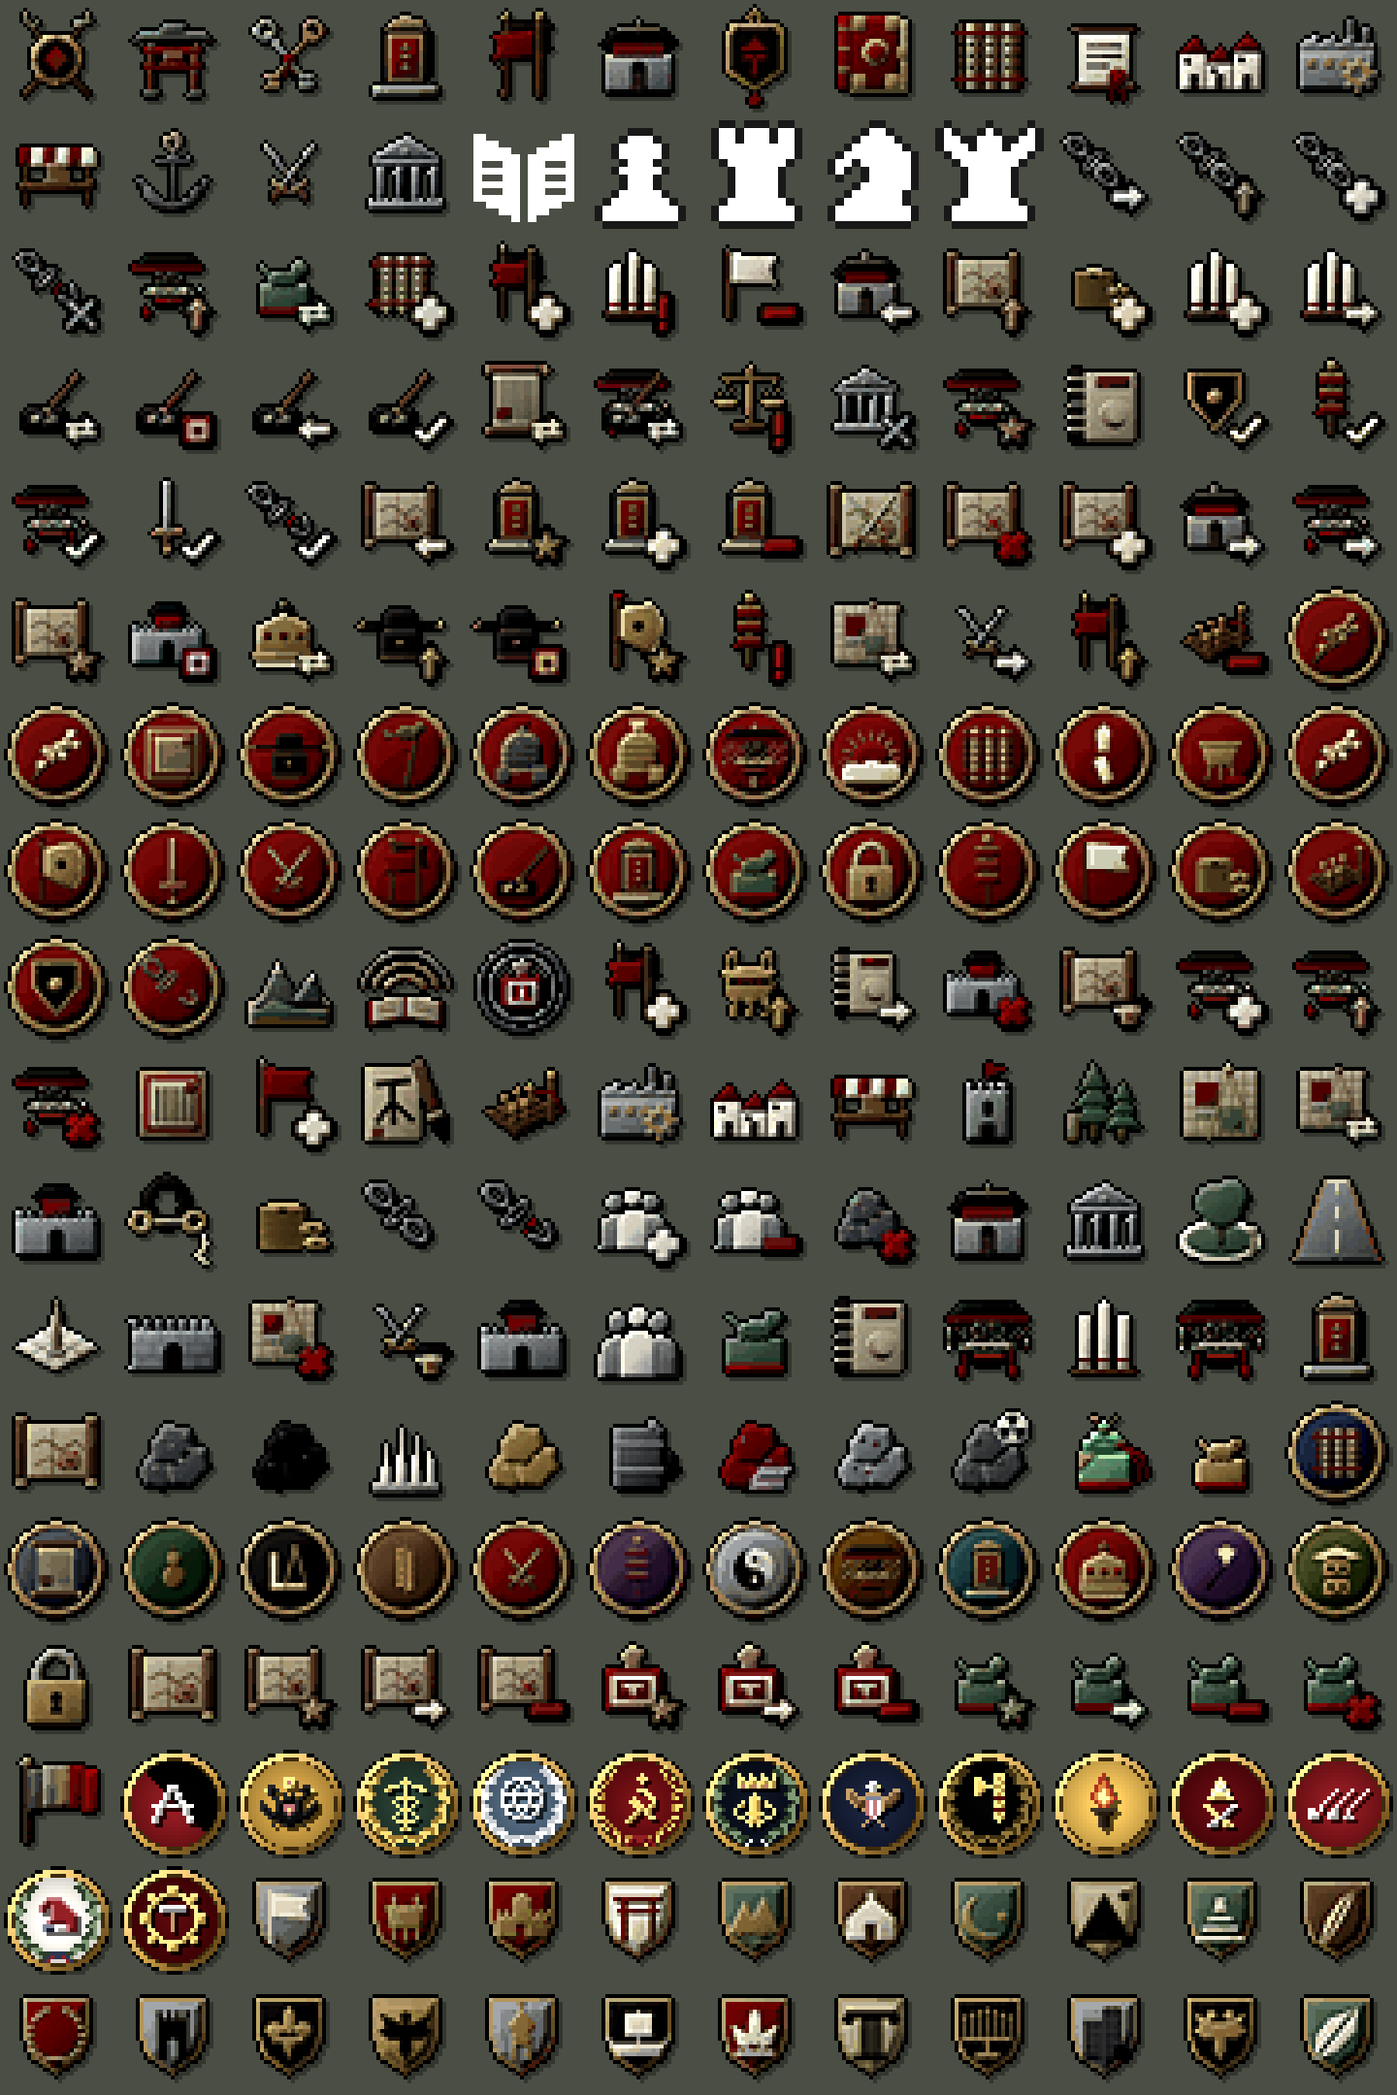
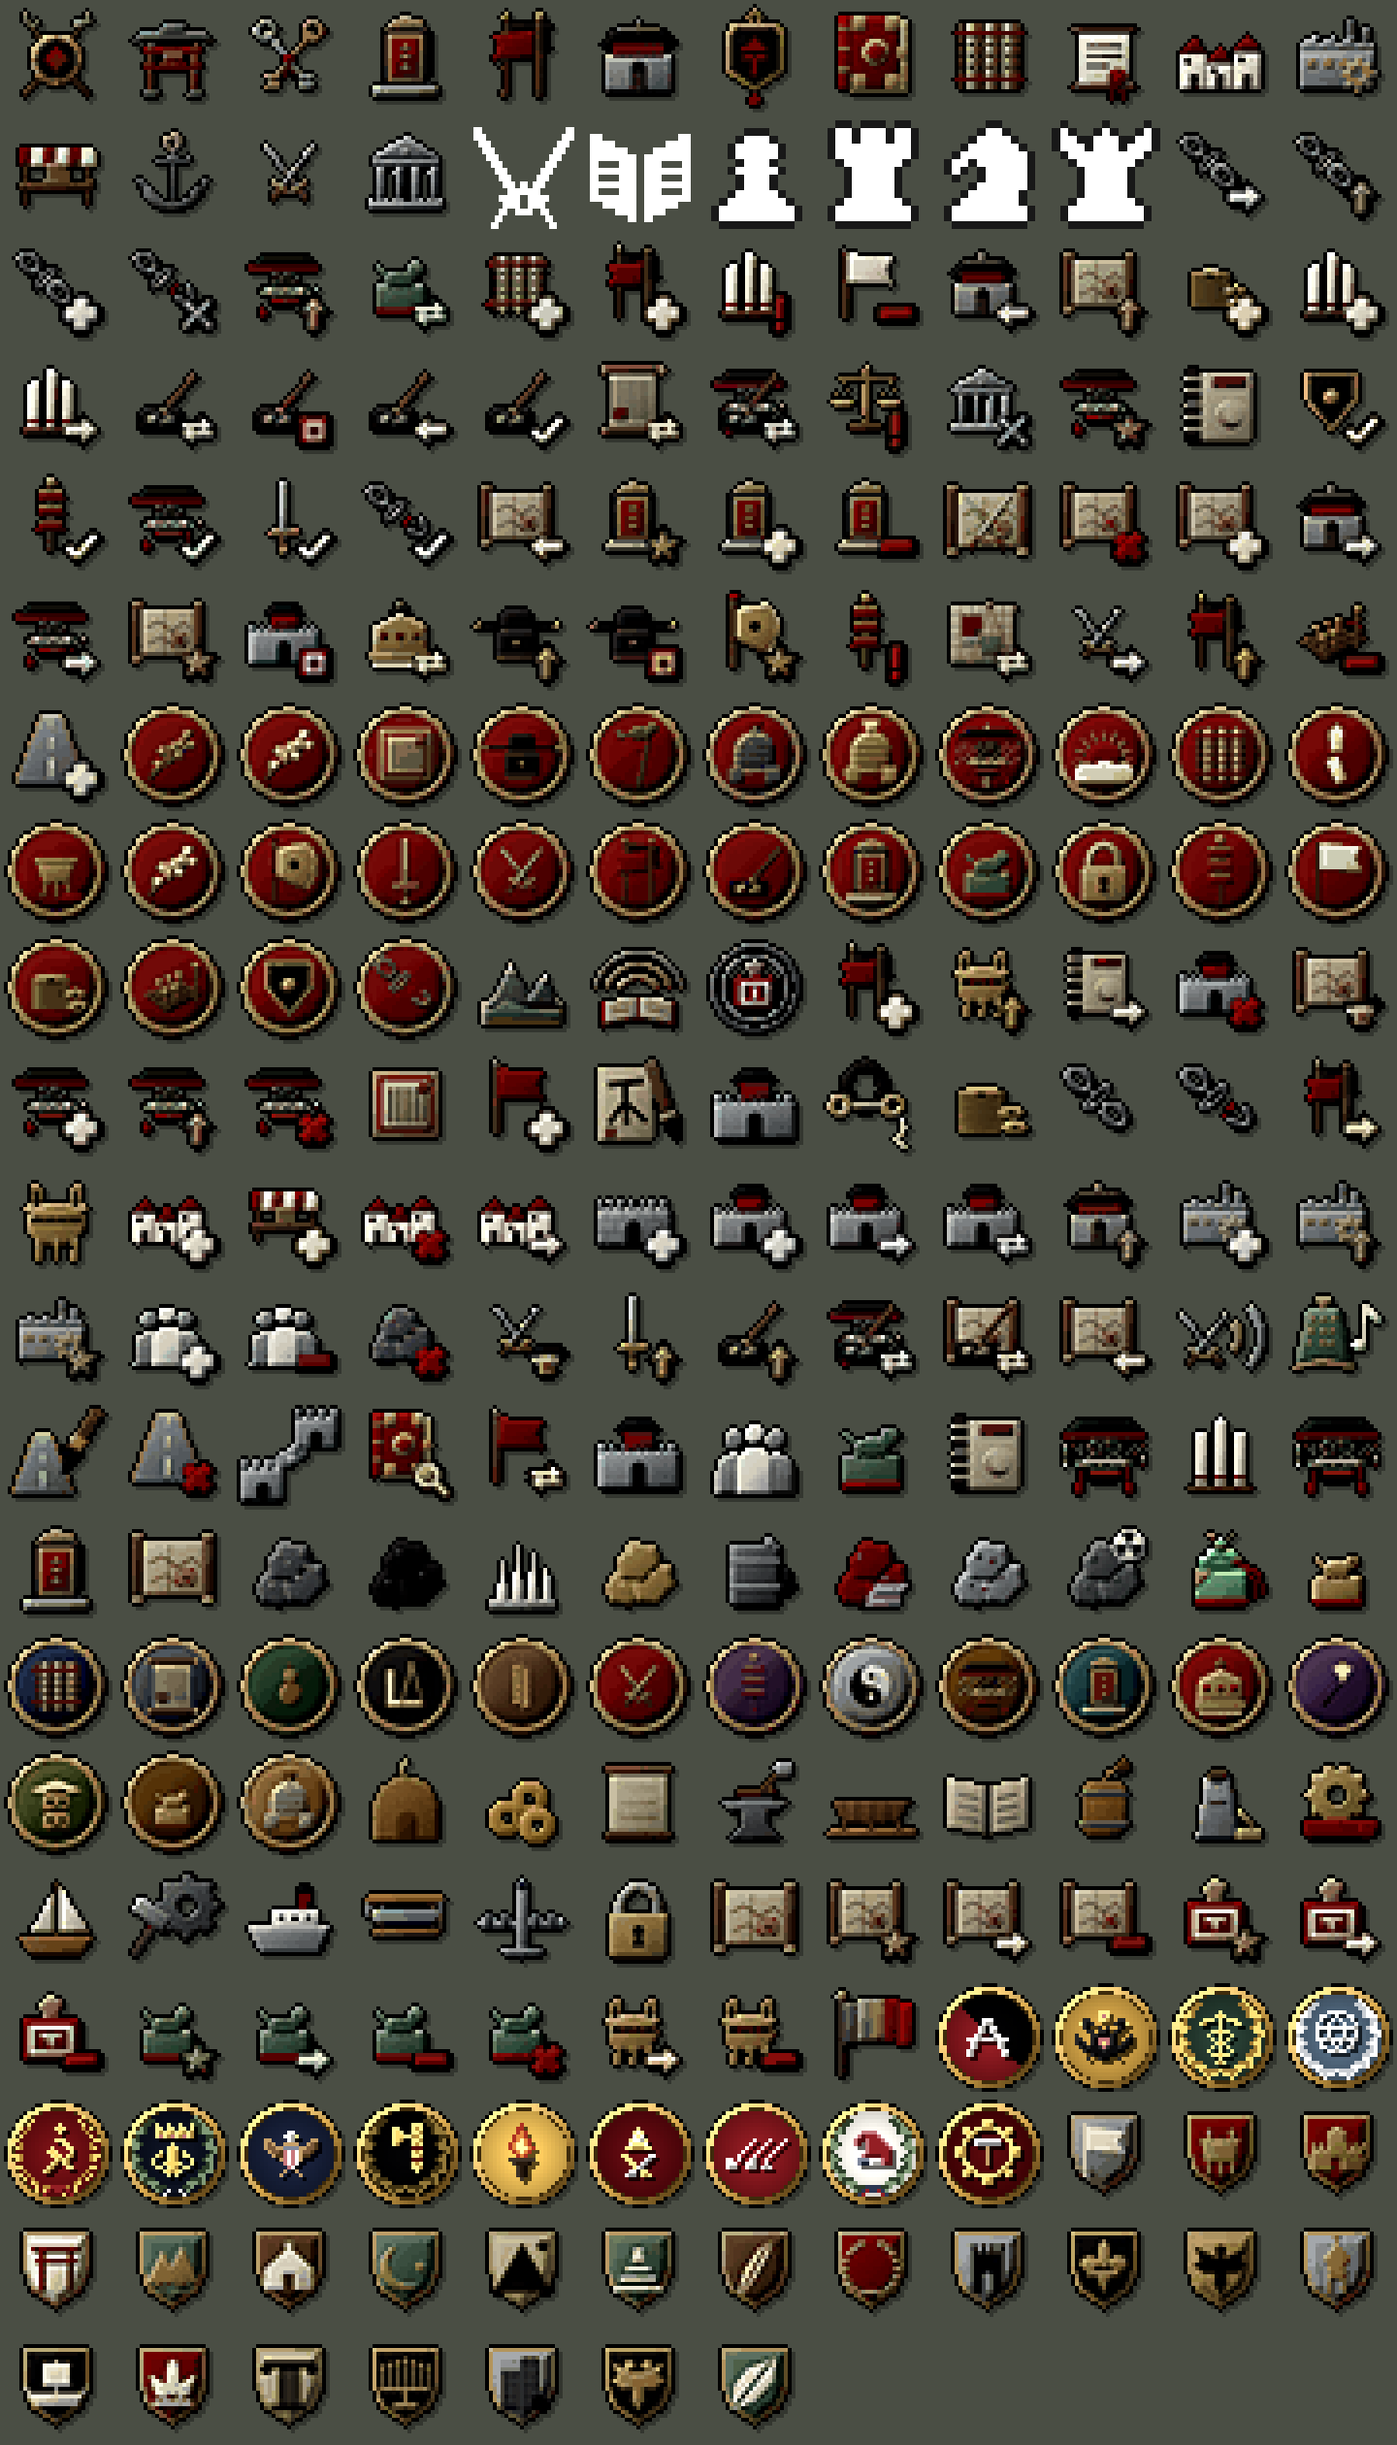
厂区加古代手工工场
- 新增窑场、铸钱局、造纸坊、冶铁坊、木船坞、印书坊，按砖瓦民居、铸币、造纸术、冶铁、沿岸领航、雕版印刷解锁，各有图标和厂区画法
- 有了近代厂以后 AI 添厂、新建只挑近代门类，每年先把一座古代工场改建成近代厂(火药厂照旧)
- 厂区小窗口添厂按钮古代、近代分两排

diff --git a/Scripts/GeneralSystems/FactorySystem.cs b/Scripts/GeneralSystems/FactorySystem.cs
@@ -13,8 +13,12 @@ namespace EmpireCraft.Scripts.GeneralSystems;
 // 归落在谁的地上的城。
 //   · 放：营建页的小、中、大厂区神力(边长 4、6、8 格，至多 2、4、6 座厂)，点城的地放下一整片成品——
 //     从本城已解锁的门类里随机挑满(见 Place)；不能压在城区、别的厂区、镇村上；
-//   · 厂：八类，同虚拟工厂(见 VirtualIndustrySystem)——火药厂(火药)、钢铁厂(工业化)、轻工厂与轻型船厂(摩托化)、
-//     重工厂与重型船厂(装甲战)、轻型飞机厂(航空)、重型飞机厂(战略航空)；船厂要城里有码头。每座 1~3 级；
+//   · 厂：古代手工工场六类(用户 2026-10-22 见厂区清一色火药厂，选"加古代手工工场")——窑场(砖瓦民居)、铸钱局(铸币)、
+//     造纸坊(造纸术)、冶铁坊(冶铁)、木船坞(沿岸领航)、印书坊(雕版印刷)；近代八类同虚拟工厂(见 VirtualIndustrySystem)——
+//     火药厂(火药)、钢铁厂(工业化)、轻工厂与轻型船厂(摩托化)、重工厂与重型船厂(装甲战)、轻型飞机厂(航空)、
+//     重型飞机厂(战略航空)；船坞、船厂要城里有码头。每座 1~3 级；
+//   · 新旧交替(问答选"AI 逐步改建成近代厂")：本城解锁了钢铁厂以后的近代门类，AI 添厂、新建只挑近代的，
+//     每年先把一座古代工场改建成近代厂(火药厂不算古代工场，照旧留着)；
 //   · 产出：每座每级给城里 jobs_per_factory 个工场岗位(见 UrbanEmploymentSystem)，每年按门类出一份产值(进税基，见 Produce)；
 //   · 本城有厂区：矿场、伐木场能升到第三级以上，产出多两成五；每片厂区多许建一座矿场、伐木场、屠宰场(至多三座)；
 //   · 点厂区打开小窗口(见 FactoryWindow)：改名、扩建缩建、换个样子，厂的升级降级、添加拆除，看产出；
@@ -30,6 +34,12 @@ public static class FactorySystem
     // 门类：建筑 id、解锁它的科技、每级每年的产值
     public static readonly (string id, string tech, float value)[] Types =
     {
+        ("kiln", "tiled_housing", 20f),
+        ("mint", "currency", 25f),
+        ("paper_mill", "paper", 25f),
+        ("iron_foundry", "ironworking", 30f),
+        ("wooden_shipyard", "coastal_pilotage", 30f),
+        ("print_shop", "printing", 30f),
         ("gunpowder_mill", "gunpowder", 40f),
         ("steel_mill", "industrialization", 60f),
         ("light_factory", "motorization", 50f),
@@ -39,6 +49,20 @@ public static class FactorySystem
         ("light_aircraft_factory", "aviation", 100f),
         ("heavy_aircraft_factory", "strategic_aviation", 120f)
     };
+
+    // 古代手工工场(有了近代厂 AI 会逐步改建掉)
+    public static readonly HashSet<string> Ancient = new()
+        { "kiln", "mint", "paper_mill", "iron_foundry", "wooden_shipyard", "print_shop" };
+
+    // 近代厂：工业化以后的门类(火药厂既不算古代也不算近代)
+    public static bool IsModern(string type) => !Ancient.Contains(type) && type != "gunpowder_mill";
+
+    // AI 挑门类：有近代的只挑近代的
+    private static List<string> Preferred(List<string> unlocked)
+    {
+        List<string> modern = unlocked.Where(IsModern).ToList();
+        return modern.Count > 0 ? modern : unlocked;
+    }
 
     public const int MaxSize = 3, MaxLevel = 3;
     public static int Capacity(int size) => Math.Max(1, size) * 2;
@@ -285,12 +309,27 @@ public static class FactorySystem
         int wanted = tier >= 4 ? 3 : tier >= 3 ? 2 : tier >= 2 ? 1 : 0;
         List<FactorySite> sites = InCity(city);
         if (wanted == 0 && sites.Count == 0) return;
+        List<string> preferred = Preferred(unlocked);
+        // 有了近代厂：先把一座古代工场(等级低的先)改建成近代厂，慢慢换代
+        if (preferred.Any(IsModern))
+        {
+            var old = sites.SelectMany(site => site.units.Select((unit, index) => (site, unit, index)))
+                .Where(entry => Ancient.Contains(entry.unit.type)).OrderBy(entry => entry.unit.level).FirstOrDefault();
+            if (old.site != null)
+            {
+                List<string> missing = preferred.Where(type => !old.site.units.Exists(unit => unit.type == type)).ToList();
+                List<string> choices = missing.Count > 0 ? missing : preferred;
+                string type = choices[UnityEngine.Random.Range(0, choices.Count)];
+                if (EnterpriseSystem.FundOwned(city, UnitCost(type, 1), old.site.state)) Rebuild(old.site, old.index, type);
+                return;
+            }
+        }
         // 没满的厂区添一座(先挑区里还没有的门类)
         FactorySite open = sites.FirstOrDefault(site => site.units.Count < Capacity(site.size));
         if (open != null)
         {
-            List<string> fresh = unlocked.Where(type => !open.units.Exists(unit => unit.type == type)).ToList();
-            List<string> pool = fresh.Count > 0 ? fresh : unlocked;
+            List<string> fresh = preferred.Where(type => !open.units.Exists(unit => unit.type == type)).ToList();
+            List<string> pool = fresh.Count > 0 ? fresh : preferred;
             string type = pool[UnityEngine.Random.Range(0, pool.Count)];
             if (EnterpriseSystem.FundOwned(city, UnitCost(type, 1), open.state)) AddUnit(open, type);
             return;
@@ -355,6 +394,7 @@ public static class FactorySystem
         if (city?.data == null || city.isRekt()) return LM.Get("factory_place_no_city");
         List<string> unlocked = manual ? AllTypes() : Unlocked(city);
         if (unlocked.Count == 0) return string.Format(LM.Get("factory_place_no_tech"), city.GetCityName());
+        if (!manual) unlocked = Preferred(unlocked);
         string refusal = manual ? CheckManual(tile.x, tile.y, size, null) : CheckFootprint(city, tile.x, tile.y, size, null);
         if (refusal != null) return refusal;
         if (claim)
@@ -493,6 +533,14 @@ public static class FactorySystem
     {
         if (site == null || index < 0 || index >= site.units.Count) return;
         site.units.RemoveAt(index);
+        Changed(site);
+    }
+
+    // 改建：这一座拆了原地另建一座别的门类(从一级起)
+    public static void Rebuild(FactorySite site, int index, string type)
+    {
+        if (site == null || index < 0 || index >= site.units.Count || TypeIndex(type) < 0) return;
+        site.units[index] = new FactoryUnit { type = type, level = 1 };
         Changed(site);
     }
 

diff --git a/Scripts/GamePatches/PureMapPatch.Factory.cs b/Scripts/GamePatches/PureMapPatch.Factory.cs
@@ -128,6 +128,70 @@ public partial class PureMapPatch
         }
         switch (unit.type)
         {
+            case "kiln":
+            {
+                // 馒头窑：一两座土红的窑包，窑口一点火光，窑顶冒烟；旁边码着青瓦
+                int kilns = unit.level >= 3 && bw >= 5 ? 2 : 1;
+                int kw = Mathf.Max(2, (bw - (kilns - 1)) / kilns);
+                for (int k = 0; k < kilns; k++)
+                {
+                    int kx = bx0 + k * (kw + 1);
+                    Rect(kx, by0, kw, bh, Rgb(156, 96, 66));
+                    Rect(kx, by0 + bh - 1, kw, 1, Rgb(178, 116, 80));
+                    put(kx + kw / 2, by0, Rgb(236, 128, 40));
+                    Smoke(kx + kw / 2, by0 + bh - 1);
+                }
+                Rect(left ? x1 : x0, y0, 1, Mathf.Min(2, h), Rgb(84, 92, 100));
+                break;
+            }
+            case "mint":
+            {
+                // 铸钱局：灰瓦院落，院里几点铜色(钱范、钱串)
+                Rect(bx0, by0, bw, bh, Rgb(108, 104, 98));
+                Rect(bx0, by0 + bh - 1, bw, 1, Rgb(84, 80, 76));
+                for (int k = 0; k < Mathf.Clamp(unit.level, 1, 3); k++)
+                    put(bx0 + 1 + k * 2, by0 + Mathf.Max(0, bh / 2 - 1), Rgb(214, 176, 60));
+                break;
+            }
+            case "paper_mill":
+            {
+                // 造纸坊：一道水渠，渠边一排排晾着的白纸
+                Rect(x0, y0, w, 1, Rgb(108, 150, 196));
+                for (int py = by0 + 1; py < by0 + bh; py += 2)
+                    Rect(bx0, py, bw, 1, Rgb(232, 226, 206));
+                Rect(left ? x1 : x0, y0 + 1, 1, Mathf.Max(1, h - 1), Rgb(126, 92, 62));
+                break;
+            }
+            case "iron_foundry":
+            {
+                // 冶铁坊：一座矮炉(炉口通红)冒烟，旁边一间棚子
+                int fx = left ? x1 - 1 : x0;
+                Rect(fx, y0, 2, Mathf.Max(2, h - 1), Rgb(70, 64, 62));
+                put(fx, y0 + Mathf.Max(1, h - 2), Rgb(236, 128, 40));
+                Smoke(fx + 1, y0 + Mathf.Max(1, h - 2));
+                Rect(left ? x0 : x0 + 3, by0, Mathf.Max(2, w - 4), bh, Rgb(126, 92, 62));
+                break;
+            }
+            case "wooden_shipyard":
+            {
+                // 木船坞：一条船槽，槽里一具木船体，旁边码着木料
+                Rect(x0, y0, w, h, Rgb(108, 150, 196));
+                int hw = Mathf.Max(2, w - 3), hh = Mathf.Max(2, Mathf.RoundToInt(h * 0.4f));
+                int hx = x0 + (w - hw) / 2, hy = y0 + (h - hh) / 2;
+                Rect(hx, hy, hw, hh, Rgb(150, 108, 70));
+                for (int px = hx + 1; px < hx + hw - 1; px += 2) put(px, hy + hh - 1, Rgb(110, 76, 48));
+                Rect(left ? x1 : x0, y1, 1, 1, Rgb(126, 92, 62));
+                break;
+            }
+            case "print_shop":
+            {
+                // 印书坊：黑瓦长屋，屋脊一道亮线，门前几摞白书
+                Rect(bx0, by0, bw, bh, Rgb(70, 74, 82));
+                Rect(bx0, by0 + bh - 1, bw, 1, Rgb(110, 114, 122));
+                for (int k = 0; k < Mathf.Clamp(unit.level, 1, 3); k++)
+                    put(bx0 + k * 2, by0 > y0 ? by0 - 1 : by0, Rgb(232, 226, 206));
+                break;
+            }
             case "gunpowder_mill":
             {
                 // 土堤隔开的几间小库房，门前几只桶

diff --git a/Tools/IconForge/imperial_forge.py b/Tools/IconForge/imperial_forge.py
@@ -1690,7 +1690,64 @@ def obj_bomber(img):
     over(img, shade(ellipse([116, 28, 140, 52]), NAVY, bevel=4, gloss=1.0))
 
 
+def obj_kiln(img):
+    """窑场：一座馒头窑，窑口透出火光，窑顶一缕烟。"""
+    over(img, shade(union(ellipse([44, 60, 212, 228]), rrect([44, 144, 212, 228], 8)), OCHRE, bevel=12, grain=0.5))
+    over(img, shade(union(ellipse([100, 146, 156, 202]), rrect([100, 174, 156, 228], 2)), AMBER, bevel=6, gloss=1.0))
+    over(img, shade(lines([[(128, 60), (112, 38), (134, 16)]], 12), STEEL, bevel=2, flat=True))
+
+
+def obj_cash_coins(img):
+    """铸钱局：三枚方孔铜钱叠着。"""
+    for x, y in ((40, 120), (100, 70), (120, 140)):
+        coin = sub(ellipse([x, y, x + 96, y + 96]), rrect([x + 36, y + 36, x + 60, y + 60], 2))
+        over(img, shade(coin, GILT, bevel=8, gloss=0.9))
+
+
+def obj_paper_sheet(img):
+    """造纸坊：竹帘上抄起一张纸，两头木杠。"""
+    over(img, shade(rrect([56, 52, 200, 204], 6), PARCH, bevel=6, grain=0.5))
+    over(img, shade(rrect([40, 36, 216, 54], 6), WOOD, bevel=5, grain=0.4))
+    over(img, shade(rrect([40, 202, 216, 220], 6), WOOD, bevel=5, grain=0.4))
+    over(img, shade(lines([[(80, 90), (176, 90)], [(80, 128), (176, 128)], [(80, 166), (176, 166)]], 4), BRASS, bevel=1, flat=True))
+
+
+def obj_anvil(img):
+    """冶铁坊：铁砧上一块烧红的铁坯。"""
+    anvil = poly([(36, 120), (220, 120), (196, 150), (164, 150), (164, 186), (200, 224), (56, 224), (92, 186), (92, 150), (60, 150)])
+    over(img, shade(anvil, IRON, bevel=10, gloss=0.6))
+    over(img, shade(rrect([84, 88, 180, 116], 8), AMBER, bevel=6, gloss=1.0))
+    over(img, shade(lines([[(196, 40), (150, 92)]], 14), WOOD, bevel=3))
+    over(img, shade(rrect([180, 22, 228, 56], 6), STEEL, bevel=5, gloss=0.7))
+
+
+def obj_hull_slip(img):
+    """木船坞：滑道上一具还没上帆的木船体，船肋露着。"""
+    over(img, shade(poly([(24, 120), (232, 120), (200, 184), (56, 184)]), WOOD, bevel=10, grain=0.5))
+    over(img, shade(lines([[(72, 120), (72, 176)], [(112, 120), (112, 182)], [(152, 120), (152, 182)], [(192, 120), (188, 176)]], 6),
+                    OCHRE, bevel=2, flat=True))
+    over(img, shade(rrect([16, 196, 240, 214], 4), OCHRE, bevel=5, grain=0.4))
+    for x in (56, 128, 200):
+        over(img, shade(rrect([x - 8, 180, x + 8, 200], 2), WOOD, bevel=3))
+
+
+def obj_open_book(img):
+    """印书坊：摊开的一部刻本，书页上几行墨字。"""
+    over(img, shade(poly([(24, 64), (124, 84), (124, 212), (24, 192)]), PARCH, bevel=8, grain=0.4))
+    over(img, shade(poly([(132, 84), (232, 64), (232, 192), (132, 212)]), PARCH, bevel=8, grain=0.4))
+    over(img, shade(rrect([120, 80, 136, 218], 4), LACQ, bevel=4))
+    for k in range(3):
+        over(img, shade(lines([[(48, 104 + k * 30), (104, 116 + k * 30)], [(152, 116 + k * 30), (208, 104 + k * 30)]], 6),
+                        IRON, bevel=1, flat=True))
+
+
 FACTORY_TYPES = {
+    "kiln": obj_kiln,
+    "mint": obj_cash_coins,
+    "paper_mill": obj_paper_sheet,
+    "iron_foundry": obj_anvil,
+    "wooden_shipyard": obj_hull_slip,
+    "print_shop": obj_open_book,
     "gunpowder_mill": obj_powder_barrel,
     "steel_mill": obj_furnace,
     "light_factory": obj_loom,

diff --git a/Scripts/UI/Windows/FactoryWindow.cs b/Scripts/UI/Windows/FactoryWindow.cs
@@ -164,9 +164,20 @@ public class FactoryWindow : AbstractWideWindow<FactoryWindow>
         {
             List<string> unlocked = FactorySystem.AllTypes();
             Line(list, LM.Get("factory_window_add").ColorString("#8FA0A8"), 6, 10f);
-            var add = list.BeginHoriGroup(new Vector2(RowWidth, 16f), TextAnchor.MiddleLeft, 2, new RectOffset(0, 0, 0, 0));
+            // 古代工场一排、近代厂一排(一排至多 8 个图标，多了折行)
+            AutoHoriLayoutGroup add = null;
+            int inRow = 0;
+            bool? ancientRow = null;
             foreach (string type in unlocked)
             {
+                bool ancient = FactorySystem.Ancient.Contains(type);
+                if (add == null || inRow >= 8 || ancientRow != ancient)
+                {
+                    add = list.BeginHoriGroup(new Vector2(RowWidth, 16f), TextAnchor.MiddleLeft, 2, new RectOffset(0, 0, 0, 0));
+                    inRow = 0;
+                    ancientRow = ancient;
+                }
+                inRow++;
                 string chosen = type;
                 add.AddButtonIntoHoriLayout("factory_type_" + type, "", () =>
                 {
